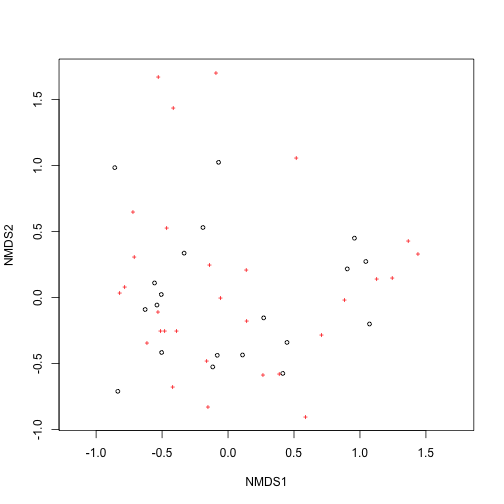
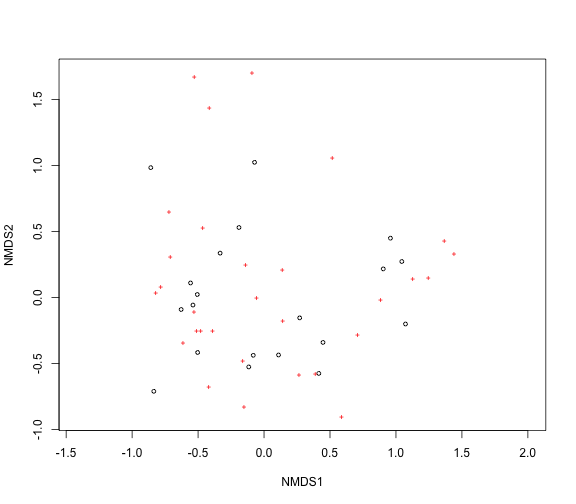
compiled changes from gavin, a few small edits

diff --git a/sfu/workshop2/index.html b/sfu/workshop2/index.html
@@ -698,29 +698,21 @@ H/log(specnumber(bci_subset))
     <h2>Rarefaction</h2>
   </hgroup>
   <article data-timings="">
-    <pre><code class="r">nosp &lt;- specnumber(BCI)
+    <pre><code class="r">data(BCI)
+nosp &lt;- specnumber(BCI)
+raremax &lt;- min(rowSums(BCI))
 nosp_rare &lt;- rarefy(BCI, raremax)
+df &lt;- data.frame(nosp, nosp_rare)
+head(df)
 </code></pre>
 
-<pre><code>Error: object &#39;raremax&#39; not found
-</code></pre>
-
-<pre><code class="r">df &lt;- data.frame(nosp, nosp_rare)
-</code></pre>
-
-<pre><code>Error: object &#39;nosp_rare&#39; not found
-</code></pre>
-
-<pre><code class="r">head(df)
-</code></pre>
-
-<pre><code>   Bellis perennis Empetrum nigrum Juncus bufonius Juncus articulatus xxx
-2                3               0               0                  0   0
-13               0               0               3                  0   0
-4                2               0               0                  0   0
-16               0               0               0                  3   0
-6                0               0               0                  0   0
-1                0               0               0                  0   0
+<pre><code>  nosp nosp_rare
+1   93     84.34
+2   84     76.53
+3   90     79.12
+4   94     82.47
+5  101     86.91
+6   85     78.51
 </code></pre>
 
   </article>
@@ -777,7 +769,7 @@ ord &lt;- metaMDS(dune, trace = 0)
 plot(ord)
 </code></pre>
 
-<p><img src="assets/fig/ordinationbase1.png" alt="plot of chunk ordinationbase1"> </p>
+<p><img src="assets/fig/ordinationbase1.png" title="plot of chunk ordinationbase1" alt="plot of chunk ordinationbase1" style="display: block; margin: auto;" /></p>
 
   </article>
   <!-- Presenter Notes -->
@@ -791,7 +783,7 @@ plot(ord)
     <pre><code class="r">ord_axes &lt;- data.frame(scores(ord))
 ord_spp &lt;- data.frame(scores(ord, display = &quot;species&quot;))
 ggplot(ord_axes, aes(NMDS1, NMDS2)) + geom_point(shape = 21) + geom_point(data = ord_spp, 
-    aes(NMDS1, NMDS2), shape = 3, colour = &quot;red&quot;)
+    aes(NMDS1, NMDS2), shape = 3, colour = &quot;red&quot;) + coord_fixed()
 </code></pre>
 
 <p><img src="assets/fig/ordinationggplot.png" title="plot of chunk ordinationggplot" alt="plot of chunk ordinationggplot" style="display: block; margin: auto;" /></p>
@@ -807,7 +799,7 @@ ggplot(ord_axes, aes(NMDS1, NMDS2)) + geom_point(shape = 21) + geom_point(data =
   <article data-timings="">
     <pre><code class="r">ord_spp$spp &lt;- row.names(ord_spp)
 ggplot(ord_axes, aes(NMDS1, NMDS2)) + geom_point(shape = 21) + geom_text(data = ord_spp, 
-    aes(NMDS1, NMDS2, label = spp), colour = &quot;red&quot;)
+    aes(NMDS1, NMDS2, label = spp), colour = &quot;red&quot;) + coord_fixed()
 </code></pre>
 
 <p><img src="assets/fig/ordinationggplot2.png" title="plot of chunk ordinationggplot2" alt="plot of chunk ordinationggplot2" style="display: block; margin: auto;" /></p>

diff --git a/sfu/workshop2/index.md b/sfu/workshop2/index.md
@@ -584,34 +584,22 @@ H/log(specnumber(bci_subset))
 
 
 ```r
+data(BCI)
 nosp <- specnumber(BCI)
+raremax <- min(rowSums(BCI))
 nosp_rare <- rarefy(BCI, raremax)
-```
-
-```
-Error: object 'raremax' not found
-```
-
-```r
 df <- data.frame(nosp, nosp_rare)
-```
-
-```
-Error: object 'nosp_rare' not found
-```
-
-```r
 head(df)
 ```
 
 ```
-   Bellis perennis Empetrum nigrum Juncus bufonius Juncus articulatus xxx
-2                3               0               0                  0   0
-13               0               0               3                  0   0
-4                2               0               0                  0   0
-16               0               0               0                  3   0
-6                0               0               0                  0   0
-1                0               0               0                  0   0
+  nosp nosp_rare
+1   93     84.34
+2   84     76.53
+3   90     79.12
+4   94     82.47
+5  101     86.91
+6   85     78.51
 ```
 
 
@@ -662,7 +650,7 @@ ord <- metaMDS(dune, trace = 0)
 plot(ord)
 ```
 
-![plot of chunk ordinationbase1](assets/fig/ordinationbase1.png) 
+<img src="assets/fig/ordinationbase1.png" title="plot of chunk ordinationbase1" alt="plot of chunk ordinationbase1" style="display: block; margin: auto;" />
 
 
 ---
@@ -674,7 +662,7 @@ plot(ord)
 ord_axes <- data.frame(scores(ord))
 ord_spp <- data.frame(scores(ord, display = "species"))
 ggplot(ord_axes, aes(NMDS1, NMDS2)) + geom_point(shape = 21) + geom_point(data = ord_spp, 
-    aes(NMDS1, NMDS2), shape = 3, colour = "red")
+    aes(NMDS1, NMDS2), shape = 3, colour = "red") + coord_fixed()
 ```
 
 <img src="assets/fig/ordinationggplot.png" title="plot of chunk ordinationggplot" alt="plot of chunk ordinationggplot" style="display: block; margin: auto;" />
@@ -688,7 +676,7 @@ ggplot(ord_axes, aes(NMDS1, NMDS2)) + geom_point(shape = 21) + geom_point(data =
 ```r
 ord_spp$spp <- row.names(ord_spp)
 ggplot(ord_axes, aes(NMDS1, NMDS2)) + geom_point(shape = 21) + geom_text(data = ord_spp, 
-    aes(NMDS1, NMDS2, label = spp), colour = "red")
+    aes(NMDS1, NMDS2, label = spp), colour = "red") + coord_fixed()
 ```
 
 <img src="assets/fig/ordinationggplot2.png" title="plot of chunk ordinationggplot2" alt="plot of chunk ordinationggplot2" style="display: block; margin: auto;" />

diff --git a/sfu/workshop2/README.md b/sfu/workshop2/README.md
@@ -1,0 +1,14 @@
+A workshop given at Simon Fraser University on 2013-07-31
+=========
+
+To edit and compile these slides:
+
++ install slidify from github: `install_github("slidify", "ramnathv", ref="dev")`
++ install slidifyLibraries (tools needed in slidify) from github: `install_github("slidifyLibraries", "ramnathv", ref="dev")`
++ edit `index.Rmd` file
++ setwd() to the directory where `index.Rmd` lives
++ run `slidify("index.Rmd")`
+
+If you want to contibute back to this presentation, make changes on your own fork, and submit a pull request. 
+
+Thanks!
